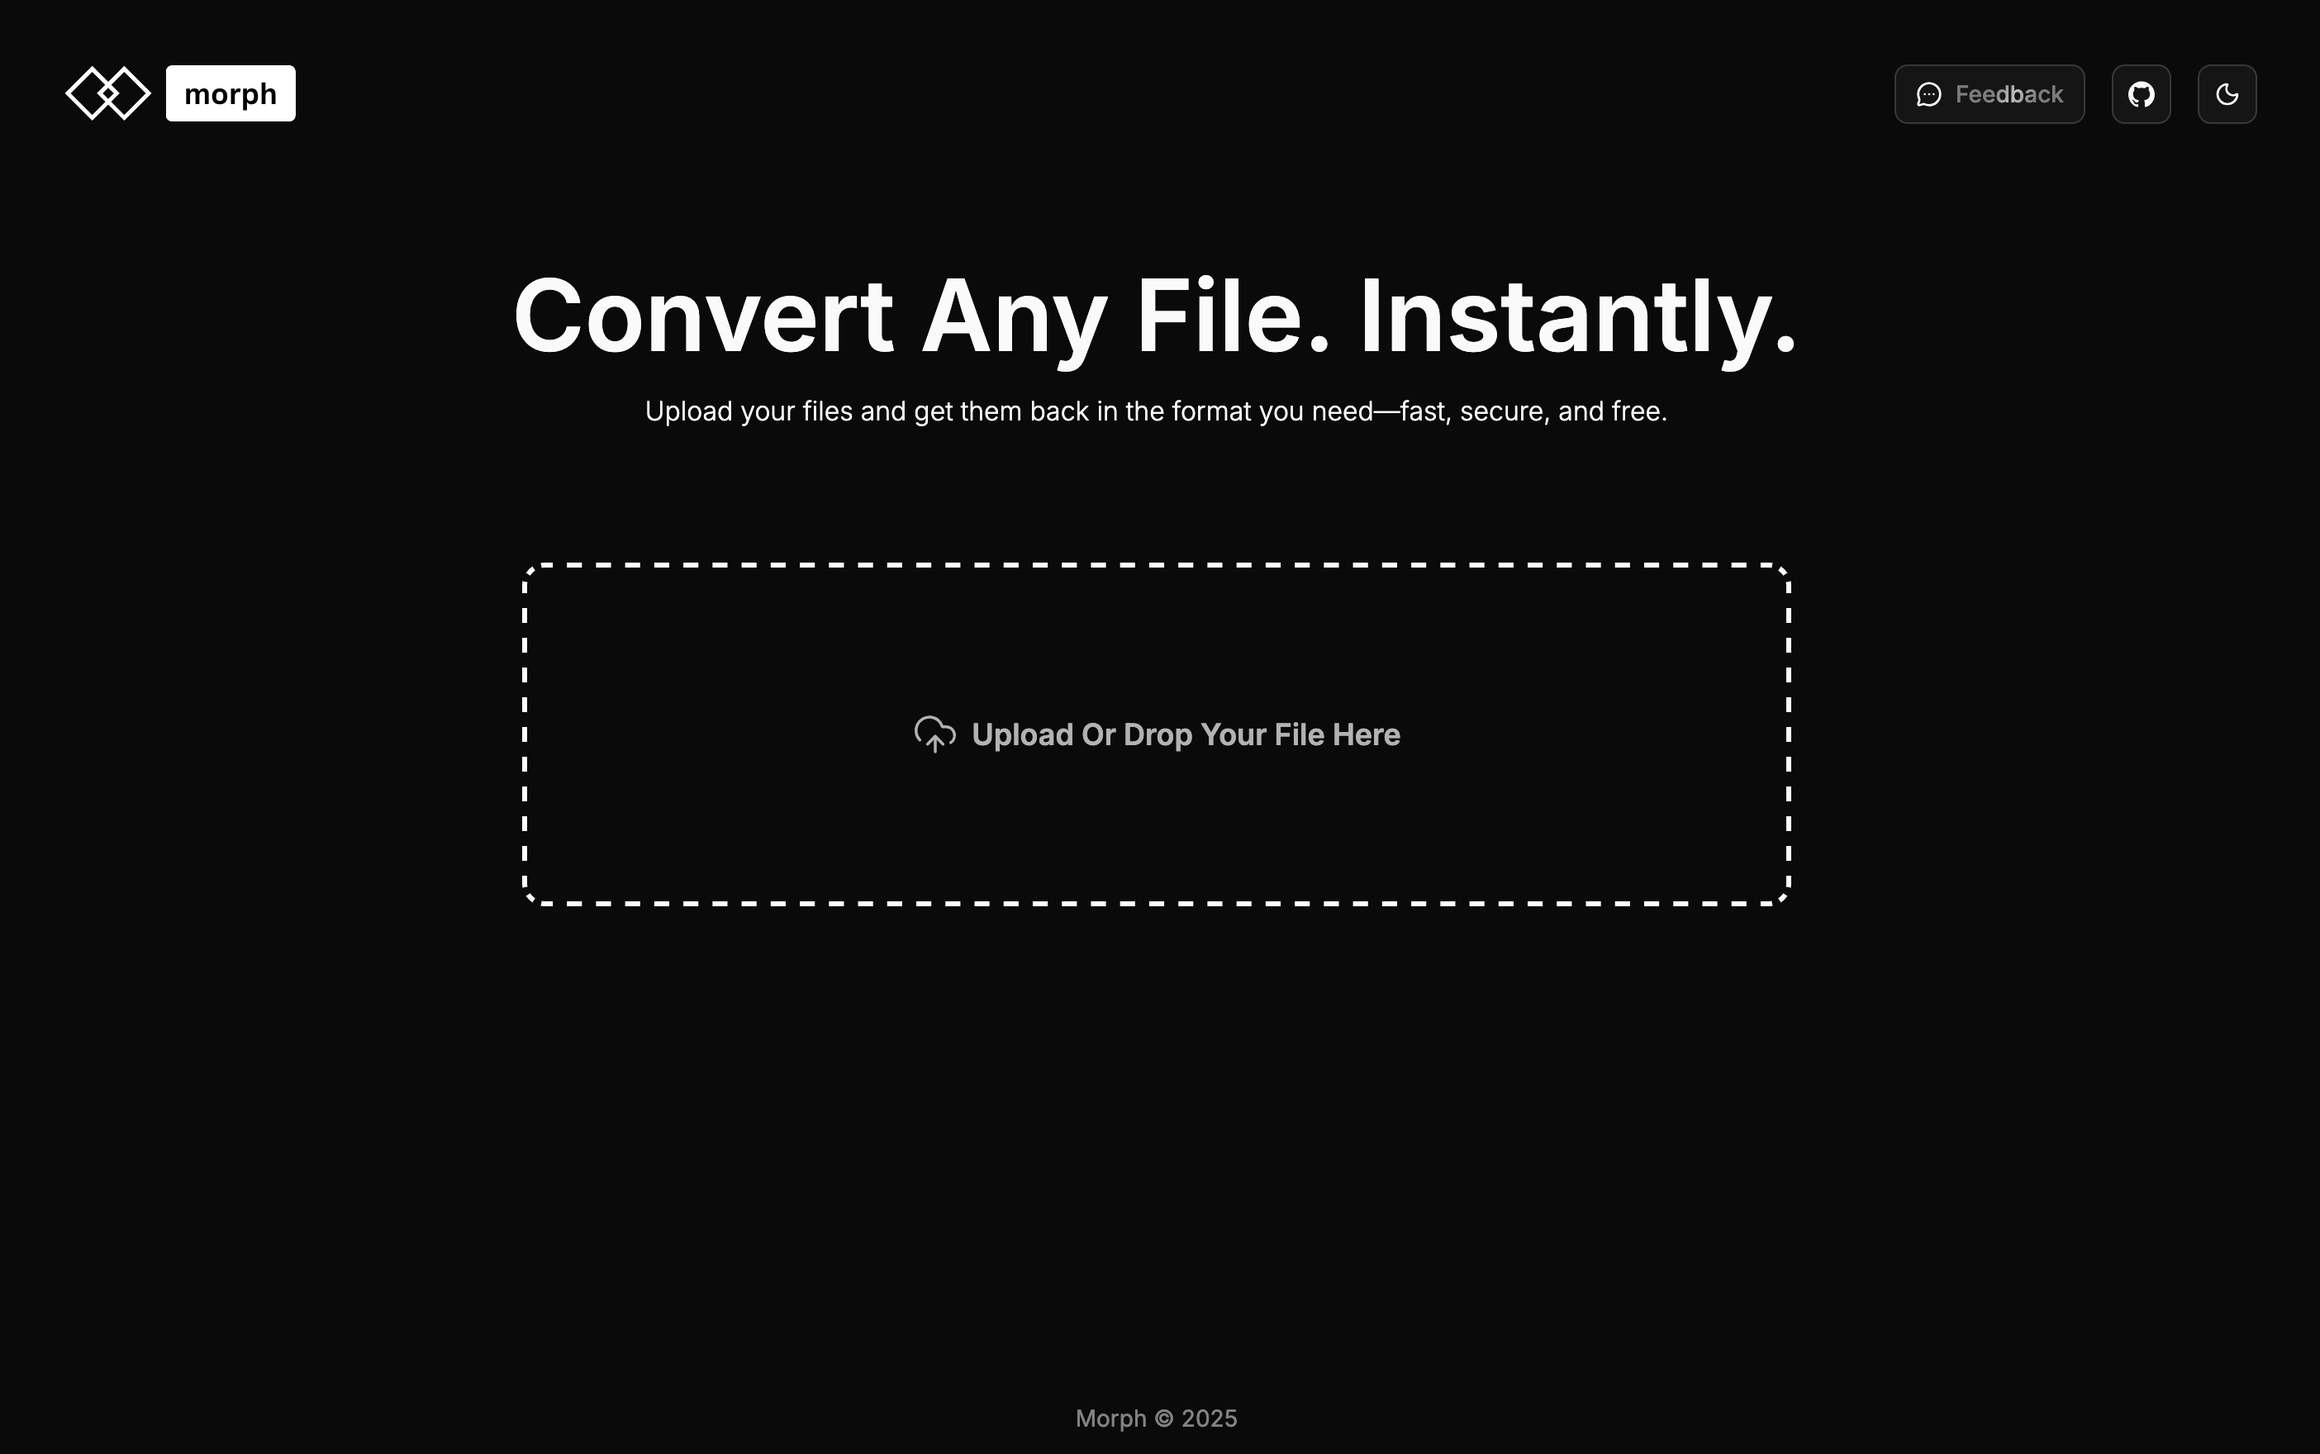
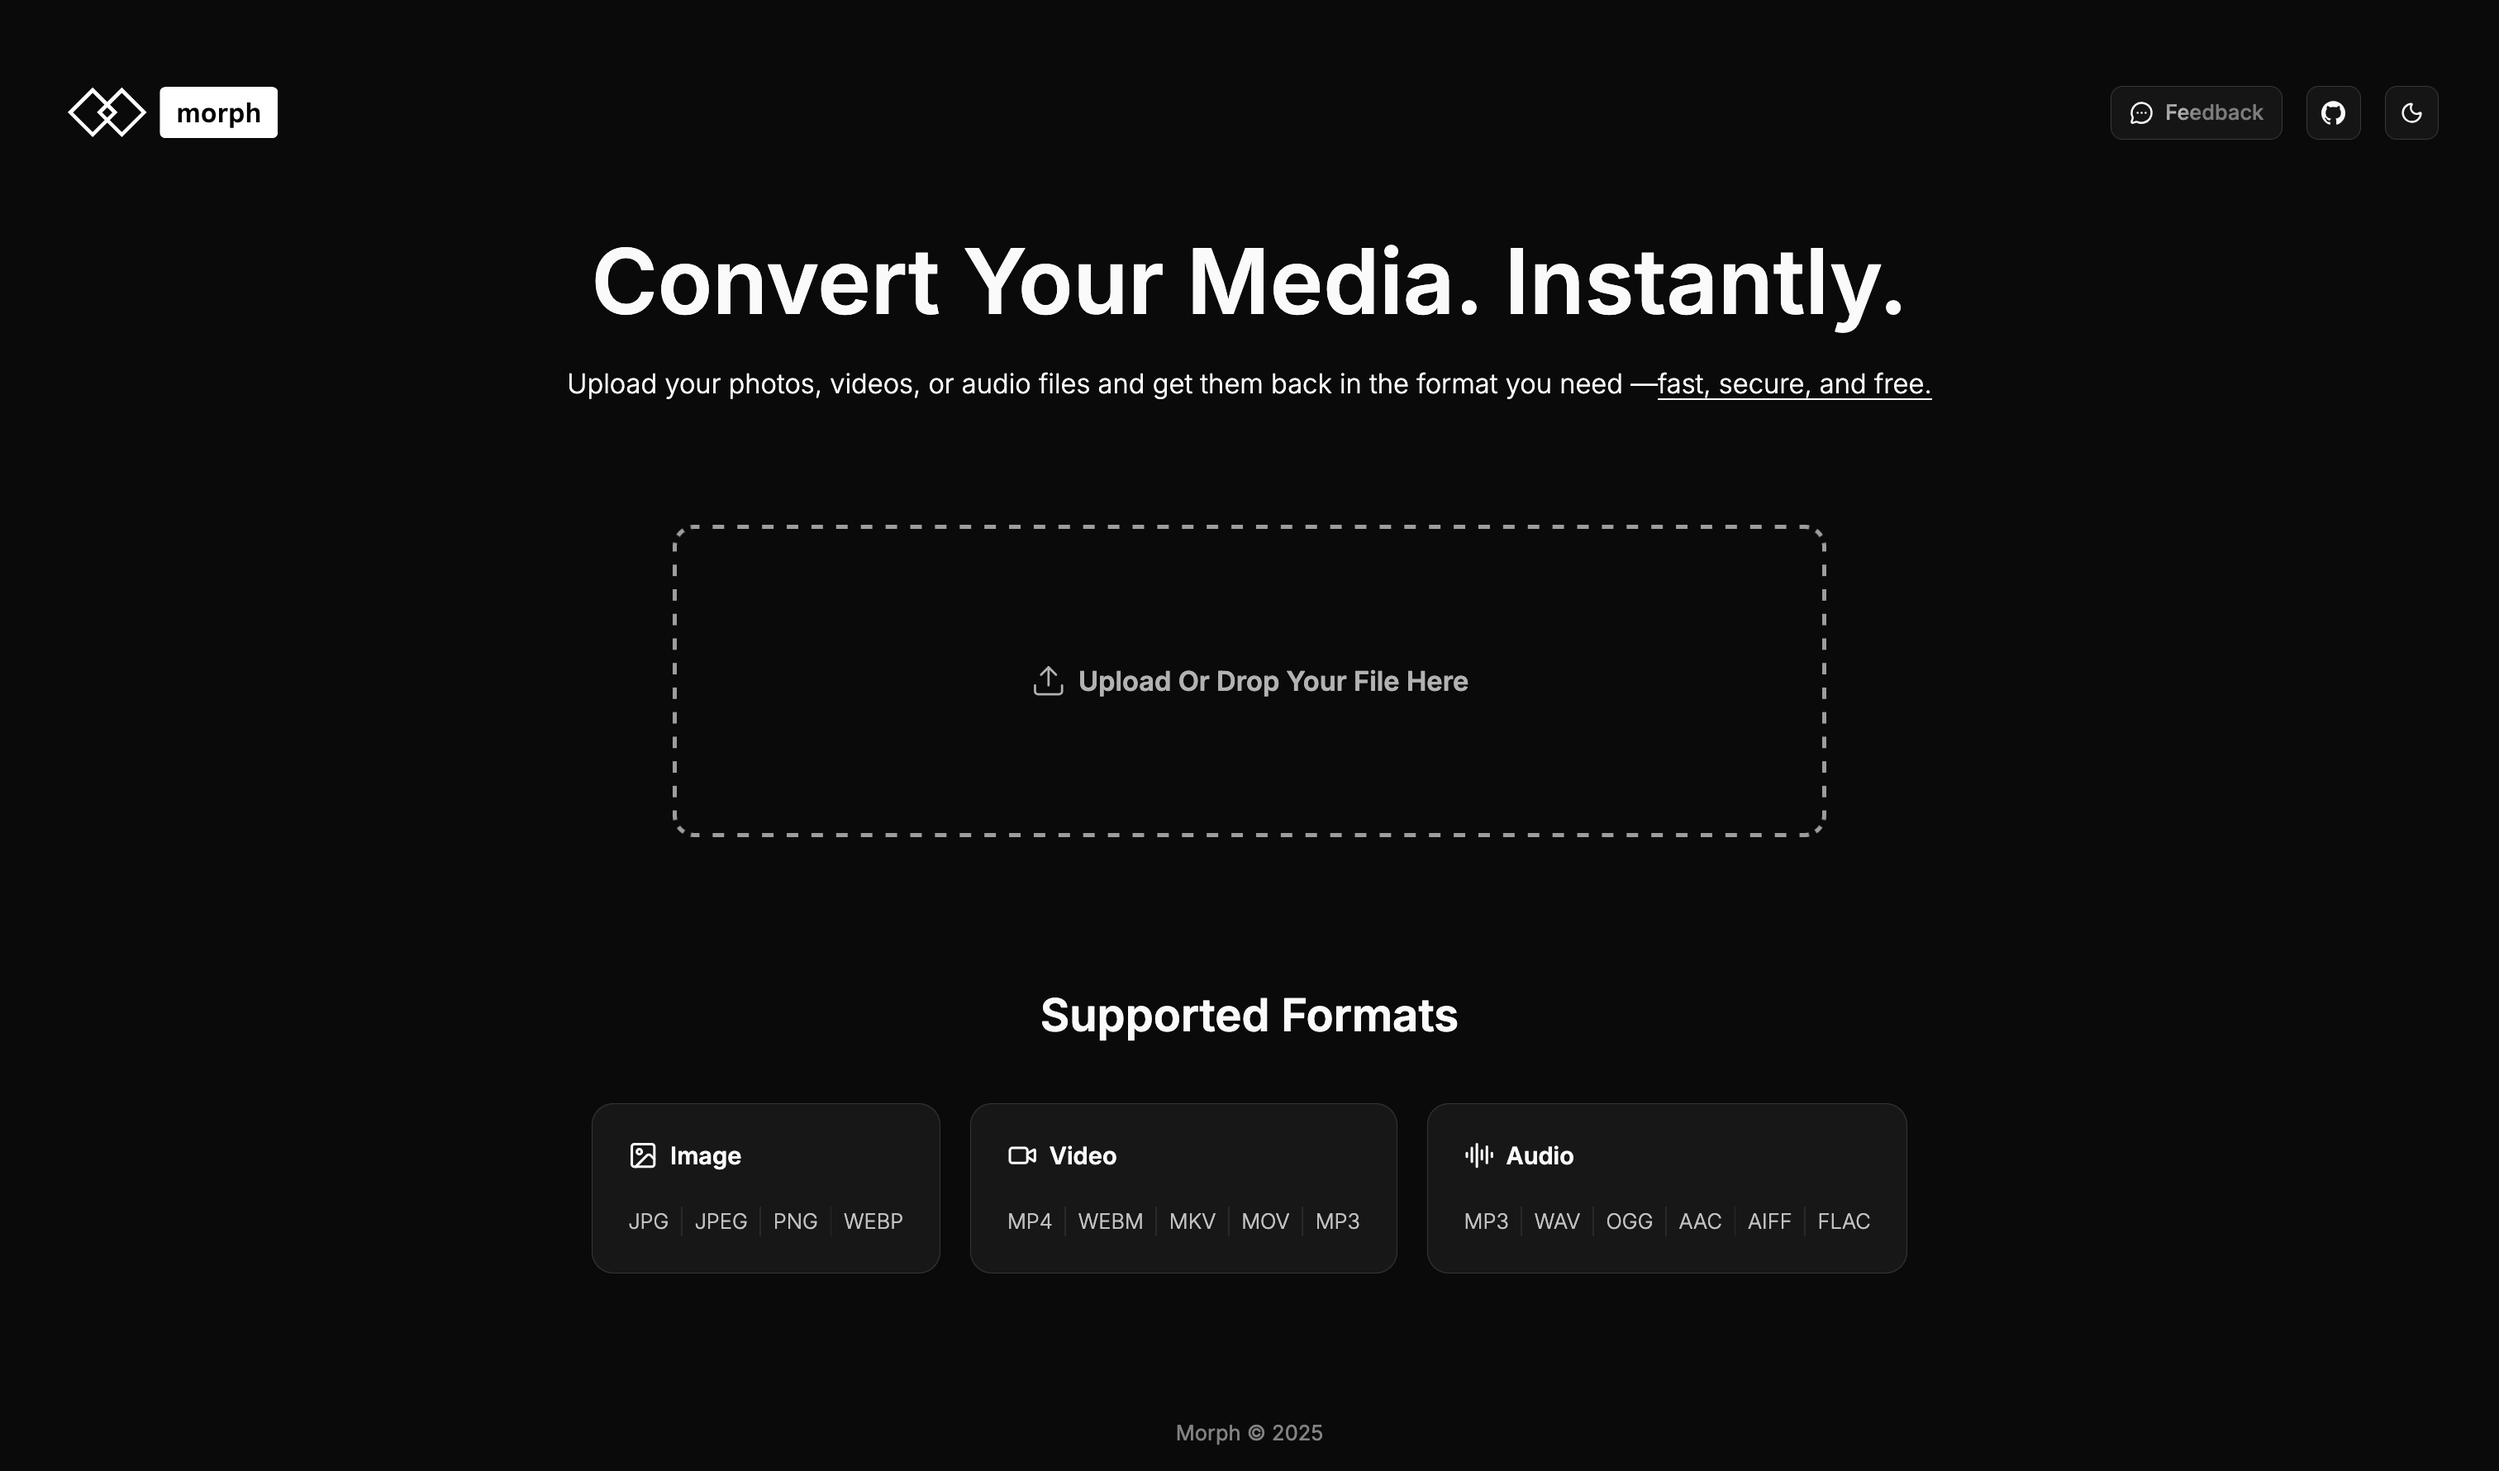
chore: updated morph project details

diff --git a/src/app/page.tsx b/src/app/page.tsx
@@ -27,6 +27,7 @@ import {
   SiRedis,
   SiOpenai,
   SiPostgresql,
+  SiFfmpeg
 } from 'react-icons/si';
 
 import { ScrollArea } from "@/components/ui/scroll-area"
@@ -132,6 +133,7 @@ export default function Home() {
     { key: 'react', Icon: SiReact },
     { key: 'next', Icon: SiNextdotjs },
     { key: 'node', Icon: SiNodedotjs },
+    { key: 'ffmpeg.wasm', Icon: SiFfmpeg },
     { key: 'tailwind', Icon: SiTailwindcss },
     { key: 'shadecn/ui', Icon: SiShadcnui },
   ] as const;
@@ -523,9 +525,9 @@ export default function Home() {
                   hasImage={true}
                   image={<img src="images/morph.png" alt="morph-showcase" className='w-full h-full object-cover rounded-t-lg' />}
                   name={"MORPH"} 
-                  subtitle={"File-Converstion Web App"} 
-                  desc={`A simple and fast file conversion web app built with Next.js, enabling users to 
-                          seamlessly convert files between multiple formats.`}
+                  subtitle={"Media-Converstion Web App"} 
+                  desc={`A simple and fast multi-media conversion web app built with Next.js, enabling users to 
+                          seamlessly convert media between multiple formats.`}
                   tech_stack={morph_stack}
                   demoLink={"https://use-morph.vercel.app/"}
                   repoLink={"https://github.com/aspherr/Morph"}
